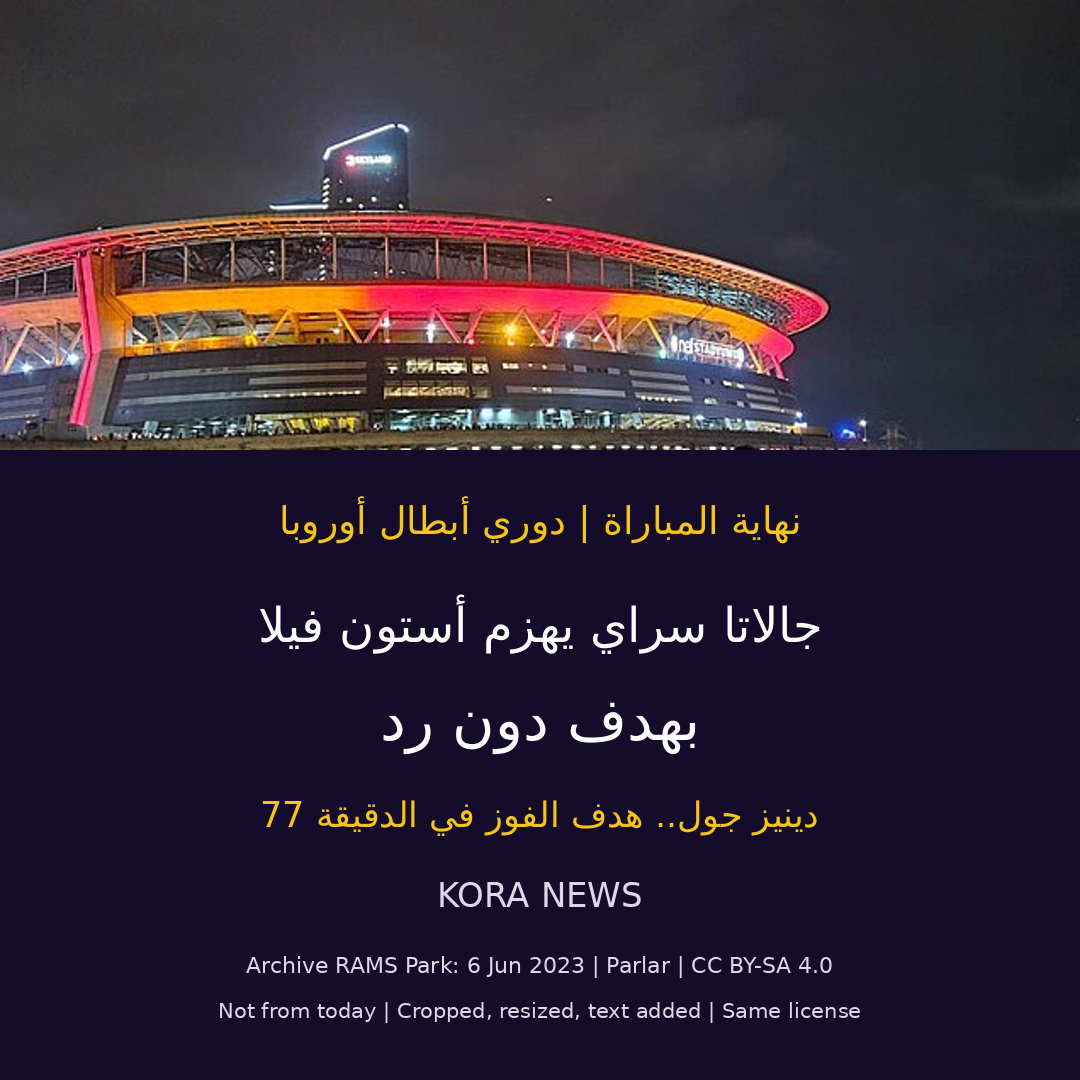
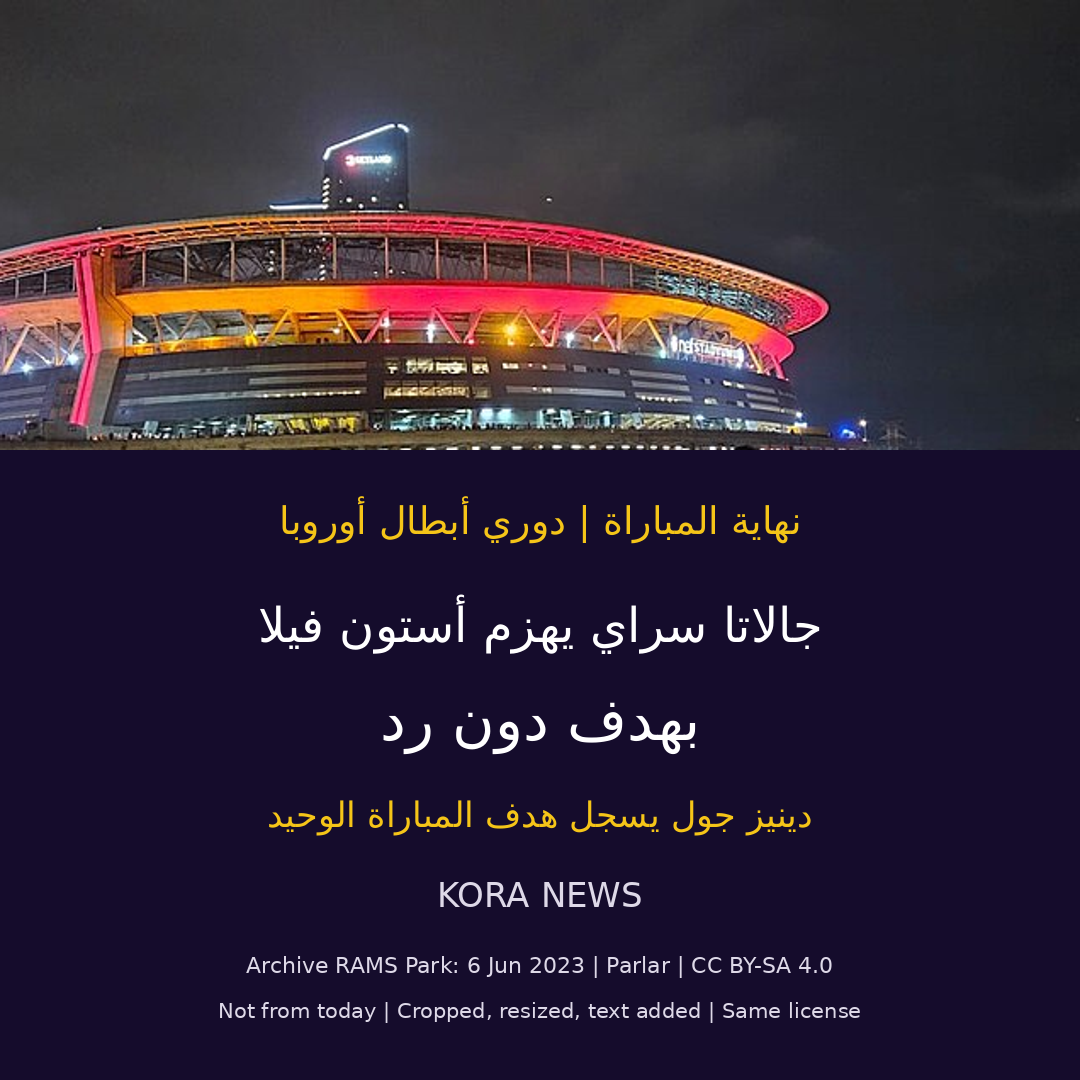
Disclose goal minute source discrepancy

Changed region(s): [[0.2444, 0.7333, 0.7639, 0.7944]]

diff --git a/posts/2026-11-24-galatasaray-beat-aston-villa-deniz-gul-winner.md b/posts/2026-11-24-galatasaray-beat-aston-villa-deniz-gul-winner.md
@@ -3,13 +3,15 @@ title: جالاتا سراي يهزم أستون فيلا بهدف دينيز ج
 slug: galatasaray-beat-aston-villa-deniz-gul-winner
 date: 2026-11-24T21:55:00+02:00
 category: نتائج المباريات
-excerpt: انتهت مباراة جالاتا سراي وأستون فيلا بفوز الفريق التركي بهدف دون رد في الجولة الخامسة من مرحلة الدوري بدوري أبطال أوروبا. دينيز جول سجل هدف اللقاء الوحيد في الدقيقة 77.
+excerpt: انتهت مباراة جالاتا سراي وأستون فيلا بفوز الفريق التركي بهدف دون رد في الجولة الخامسة من مرحلة الدوري بدوري أبطال أوروبا. دينيز جول سجل هدف اللقاء الوحيد.
 image: galatasaray-villa-final-gul-winner.png
 ---
 
 فاز **جالاتا سراي على أستون فيلا بهدف دون رد** على ملعب رامس بارك يوم **24 نوفمبر 2026**، في الجولة الخامسة من مرحلة الدوري في دوري أبطال أوروبا.
 
-وسجل **دينيز جول** هدف المباراة الوحيد في **الدقيقة 77**، ليحسم انتصار أصحاب الأرض بعدما انتهى الشوط الأول بالتعادل دون أهداف.
+وسجل **دينيز جول** هدف المباراة الوحيد، ليحسم انتصار أصحاب الأرض بعدما انتهى الشوط الأول بالتعادل دون أهداف.
+
+**ملاحظة عن توقيت الهدف:** يعرض ملخص الأحداث النهائي في مركز فيلا الهدف عند **76 دقيقة**، بينما تسجله BBC والتعليق التفصيلي السابق للنادي في **الدقيقة 77**. تتفق المصادر على صاحب الهدف والنتيجة النهائية؛ ونوضح اختلاف عرض الدقيقة بدل اختيار أحد الرقمين دون تنبيه.
 
 ## رأسية حسمت اللقاء
 
